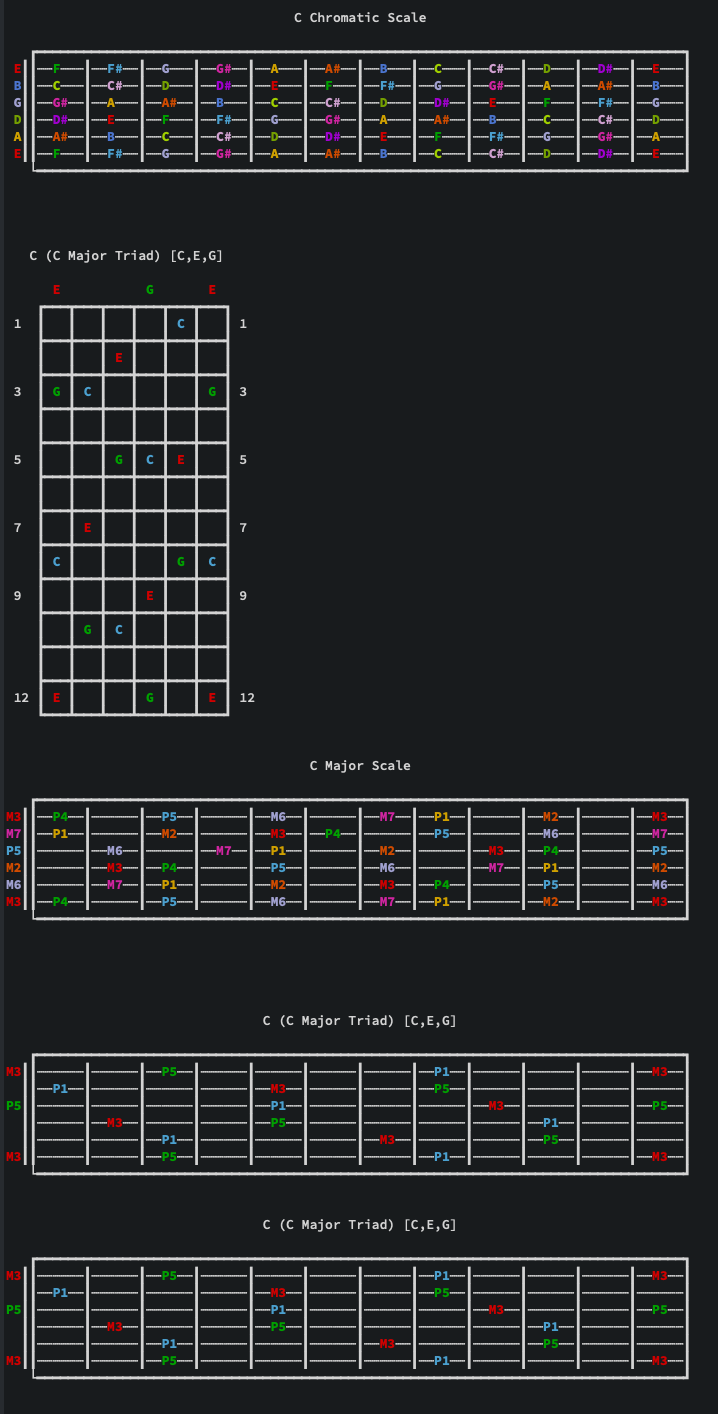
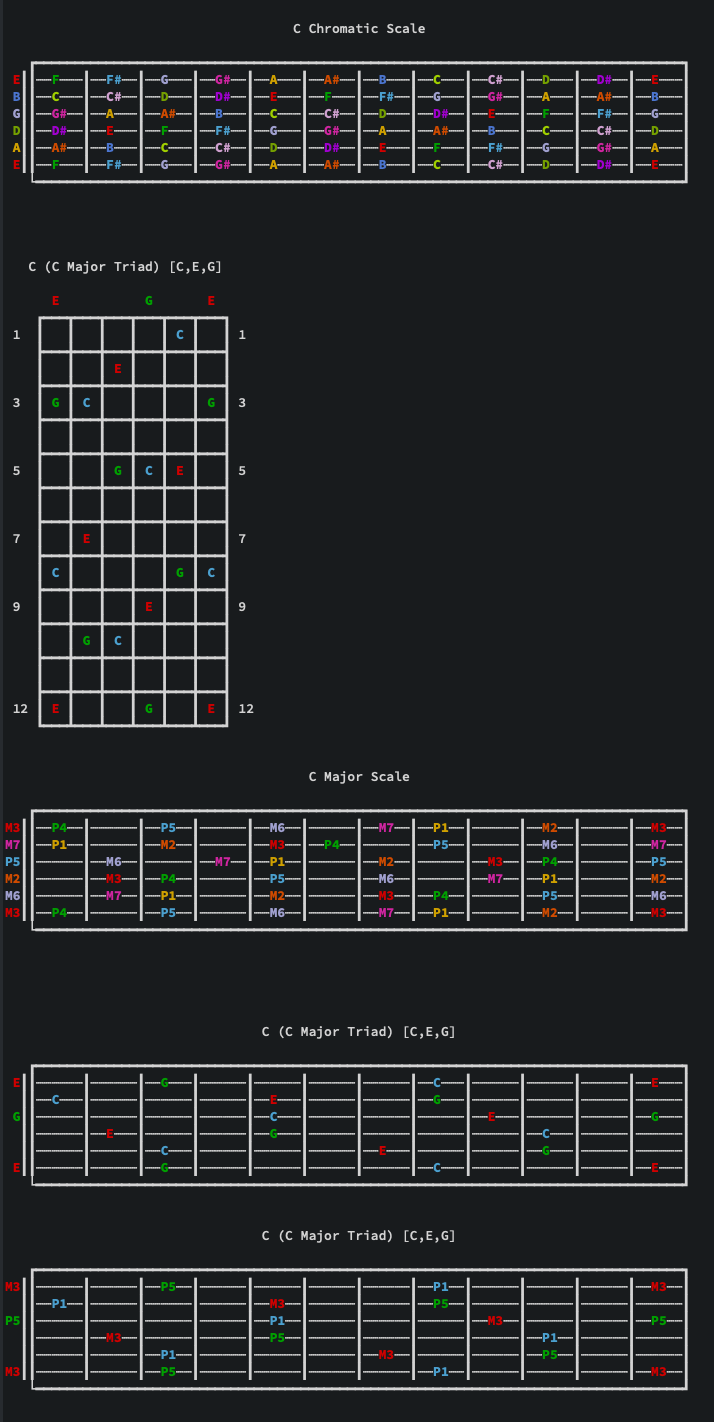
better example

diff --git a/src/main/java/me/flotsam/frettler/Main.java b/src/main/java/me/flotsam/frettler/Main.java
@@ -27,7 +27,8 @@ public class Main {
 
   public void cMajorScale(Guitar guitar) throws Exception {
     GuitarView guitarView = new GuitarView(guitar);
-    GuitarView.Options gvOptions = guitarView.new Options(true, false, true);
+    GuitarView.Options intervalsInlaysColor = guitarView.new Options(true, false, true);
+    GuitarView.Options notesInlaysColor = guitarView.new Options(false, false, true);
 
     ChordView chordView = new ChordView(guitar);
     ChordView.Options cvOptions = chordView.new Options(true);
@@ -37,14 +38,14 @@ public class Main {
     out.println();
     out.println();
 
-    guitarView.showFretboard(gvOptions);
+    guitarView.showFretboard(intervalsInlaysColor);
     out.println();
     out.println();
 
     Chord cMajorChord = new Chord(Note.C, ScalePattern.MAJOR_TRIAD);
     chordView.showChord(cMajorChord, cvOptions);
     
-    guitarView.showFretboard(cMajorScale, gvOptions);
+    guitarView.showFretboard(cMajorScale, intervalsInlaysColor);
     out.println();
 
     List<Chord> chords = cMajorScale.createScaleChords();
@@ -56,8 +57,8 @@ public class Main {
 
     for (Chord chord : chords) {
       out.println();
-      guitarView.showFretboard(chord, gvOptions);
-      guitarView.showFretboard(chord, gvOptions);
+      guitarView.showFretboard(chord, notesInlaysColor);
+      guitarView.showFretboard(chord, intervalsInlaysColor);
     }
   }
 }
